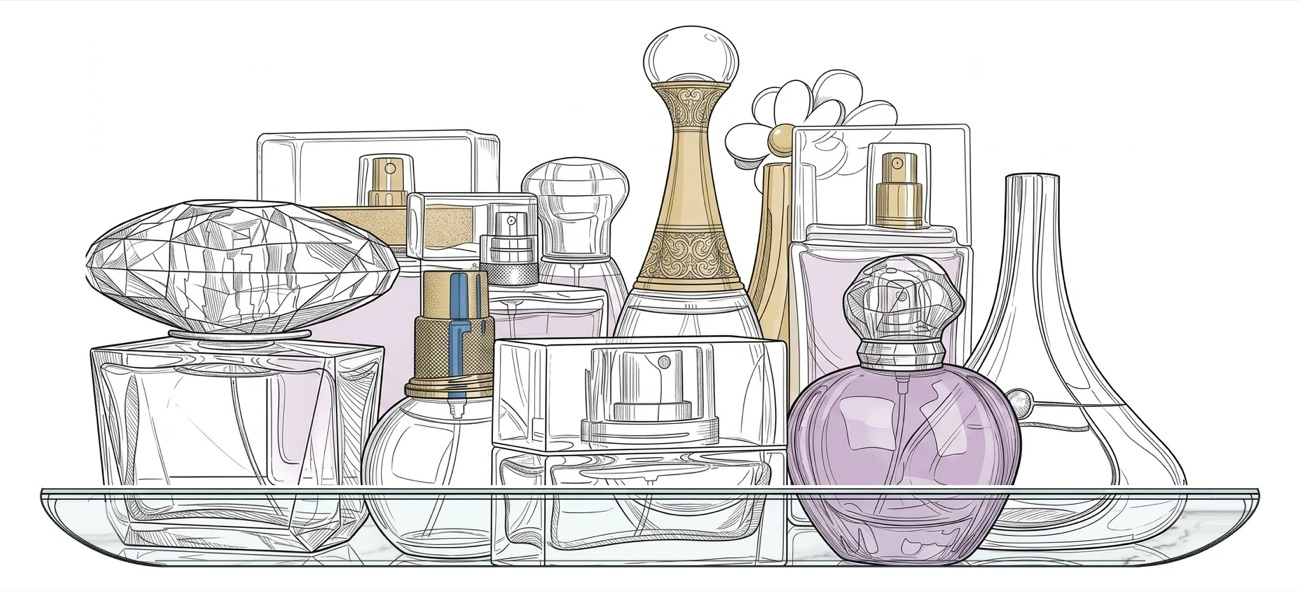
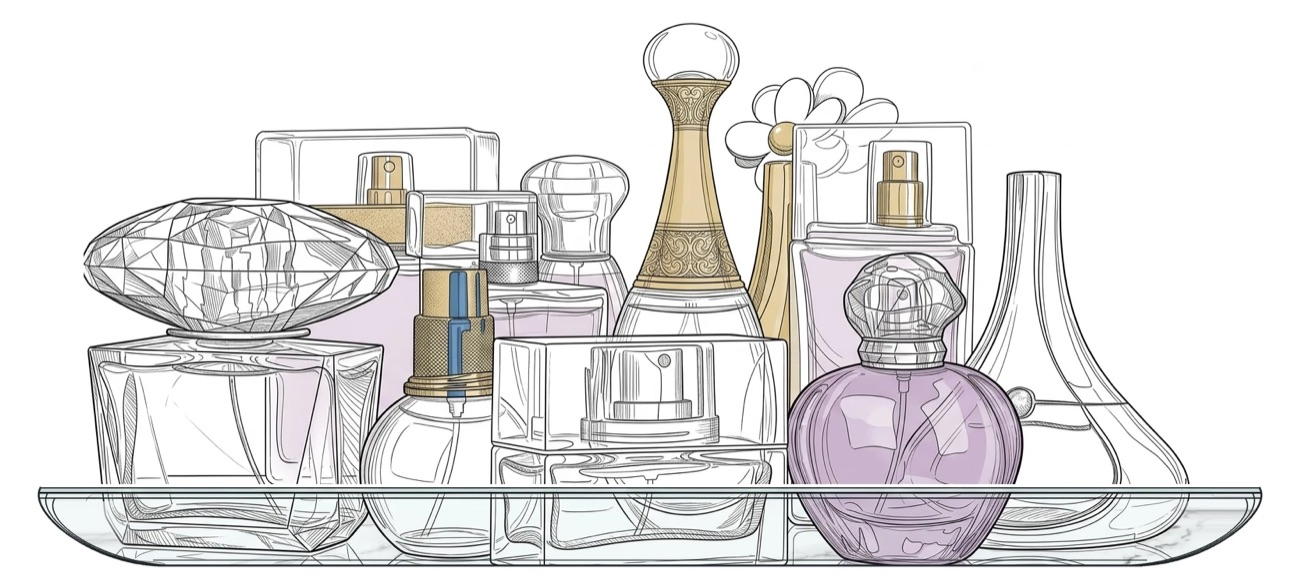
Ilustración del estante: quitar la línea gris del borde y fundirla con el fondo

Changed region(s): [[0.0308, 0.0306, 0.9846, 0.9796]]

diff --git a/catalogo.html b/catalogo.html
@@ -15,7 +15,7 @@
 <title>Catálogo · Aroma Capital</title>
 <link rel="preconnect" href="https://fonts.googleapis.com">
 <link rel="stylesheet" href="https://fonts.googleapis.com/css2?family=Cormorant+Garamond:ital,wght@0,400;0,500;0,600;1,300;1,400&family=Jost:wght@300;400;500;600&display=swap">
-<link rel="stylesheet" href="estilo.css?v=24">
+<link rel="stylesheet" href="estilo.css?v=25">
 <style>
 .crumbs{font-size:12px;letter-spacing:.14em;text-transform:uppercase;color:var(--muted);margin:18px 0 12px}
 .crumbs a{text-decoration:none}.crumbs a:hover{color:var(--ink)}
@@ -78,8 +78,8 @@
   <div id="lista"></div>
 </main>
 
-<script src="datos.js?v=24"></script>
-<script src="comun.js?v=24"></script>
+<script src="datos.js?v=25"></script>
+<script src="comun.js?v=25"></script>
 <script>
 const qs=new URLSearchParams(location.search);
 const st={g:['M','H'].includes(qs.get('g'))?qs.get('g'):'T',s:SECCIONES.some(x=>x.id==qs.get('s'))?qs.get('s'):'',f:qs.get('f')||''};

diff --git a/ficha.html b/ficha.html
@@ -15,7 +15,7 @@
 <title>Ficha · Aroma Capital</title>
 <link rel="preconnect" href="https://fonts.googleapis.com">
 <link rel="stylesheet" href="https://fonts.googleapis.com/css2?family=Cormorant+Garamond:ital,wght@0,400;0,500;0,600;1,300;1,400&family=Jost:wght@300;400;500;600&display=swap">
-<link rel="stylesheet" href="estilo.css?v=24">
+<link rel="stylesheet" href="estilo.css?v=25">
 <style>
 .crumbs{font-size:12px;letter-spacing:.14em;text-transform:uppercase;color:var(--muted);margin:18px 0 0}
 .crumbs a{text-decoration:none}.crumbs a:hover{color:var(--ink)}
@@ -104,9 +104,9 @@
   <section class="more" id="more"></section>
 </main>
 
-<script src="datos.js?v=24"></script>
-<script src="fichas.js?v=24"></script>
-<script src="comun.js?v=24"></script>
+<script src="datos.js?v=25"></script>
+<script src="fichas.js?v=25"></script>
+<script src="comun.js?v=25"></script>
 <script>
 const c=new URLSearchParams(location.search).get('c');
 const p=BY[c];

diff --git a/comun.js b/comun.js
@@ -76,7 +76,7 @@ function montarPiezas(activo){
     <p><b>Cómo pedir</b>Agrega a tu carrito los perfumes que quieras y envíanos un solo mensaje.</p>
     <a class="btn" href="${waLink('Hola Aroma Capital')}" target="_blank" rel="noopener">Escríbenos por WhatsApp</a>
   </div>
-  <img class="dibujo" src="iconos/dibujo-estante.jpg" alt="Dibujo de frascos de perfume en un estante" width="1300" height="591" loading="lazy">
+  <img class="dibujo" src="iconos/dibujo-estante.jpg" alt="Dibujo de frascos de perfume en un estante" width="1300" height="588" loading="lazy">
 </div></section>
 <section class="perks"><div class="wrap">
   <div class="perk"><svg width="40" height="40" viewBox="0 0 24 24" aria-hidden="true"><path fill="currentColor" d="M12 2a10 10 0 0 0-8.6 15.1L2 22l5-1.3A10 10 0 1 0 12 2zm0 18.2a8.2 8.2 0 0 1-4.2-1.2l-.3-.2-3 .8.8-2.9-.2-.3A8.2 8.2 0 1 1 12 20.2z"/></svg><div><b>Pedidos por WhatsApp</b><span>829-232-4326</span></div></div>

diff --git a/index.html b/index.html
@@ -15,7 +15,7 @@
 <title>Aroma Capital</title>
 <link rel="preconnect" href="https://fonts.googleapis.com">
 <link rel="stylesheet" href="https://fonts.googleapis.com/css2?family=Cormorant+Garamond:ital,wght@0,400;0,500;0,600;1,300;1,400&family=Jost:wght@300;400;500;600&display=swap">
-<link rel="stylesheet" href="estilo.css?v=24">
+<link rel="stylesheet" href="estilo.css?v=25">
 <style>
 /* ---------- Banner rotativo ---------- */
 .hero{margin-top:14px;position:relative;overflow:hidden;touch-action:pan-y;border:1px solid var(--line)}
@@ -197,8 +197,8 @@
   </section>
 </main>
 
-<script src="datos.js?v=24"></script>
-<script src="comun.js?v=24"></script>
+<script src="datos.js?v=25"></script>
+<script src="comun.js?v=25"></script>
 <script>
 montarPiezas('');
 $$('svg.carro').forEach(s=>s.innerHTML=CARRO);

diff --git a/estilo.css b/estilo.css
@@ -75,7 +75,7 @@ a{color:inherit}
 .pide p{margin:0 0 16px;max-width:42ch}
 .pide p b{display:block;font-weight:500;font-size:13px;letter-spacing:.14em;text-transform:uppercase}
 .pide .btn{margin:8px 0 44px}
-.dibujo{width:100%;max-width:620px;height:auto;display:block;justify-self:end}
+.dibujo{width:100%;max-width:620px;height:auto;display:block;justify-self:end;mix-blend-mode:multiply}
 
 /* ---------- Franja de ventajas y pie ---------- */
 .perks{background:var(--tint)}

diff --git a/sw.js b/sw.js
@@ -1,6 +1,6 @@
 // Aroma Capital — service worker: guarda la página y las fotos para abrirla sin internet.
 // preparar.py cambia VERSION cada vez que cambian los archivos, así el celular baja lo nuevo.
-const VERSION = '25db5fd9ad';
+const VERSION = 'af0c6bd619';
 const BASE = 'aroma-base-' + VERSION;
 const FOTOS = 'aroma-fotos-' + VERSION;
 const FUENTES = 'aroma-fuentes';
